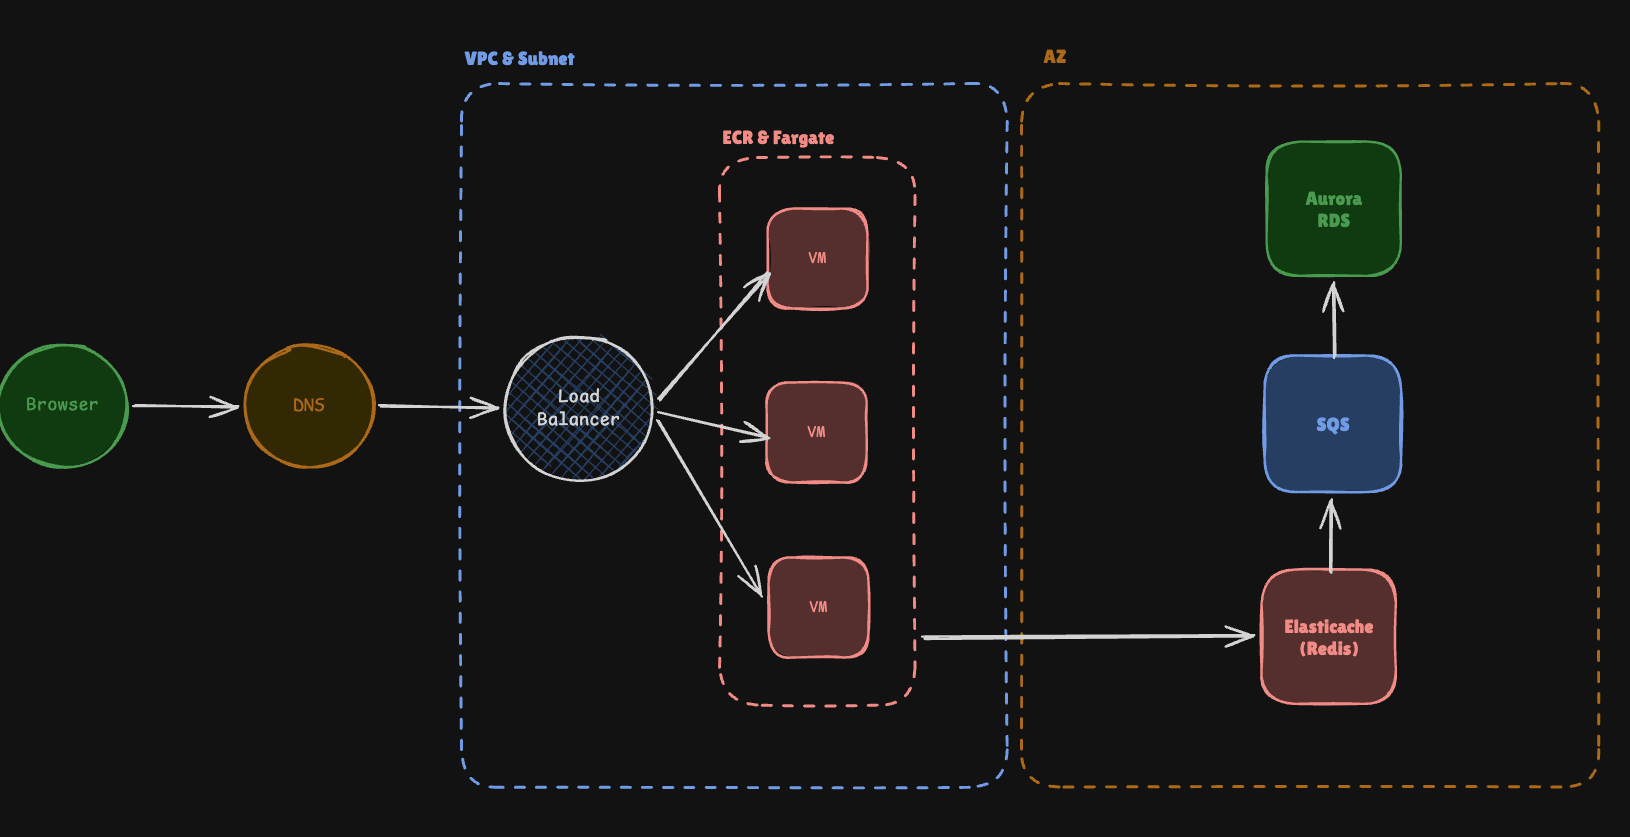
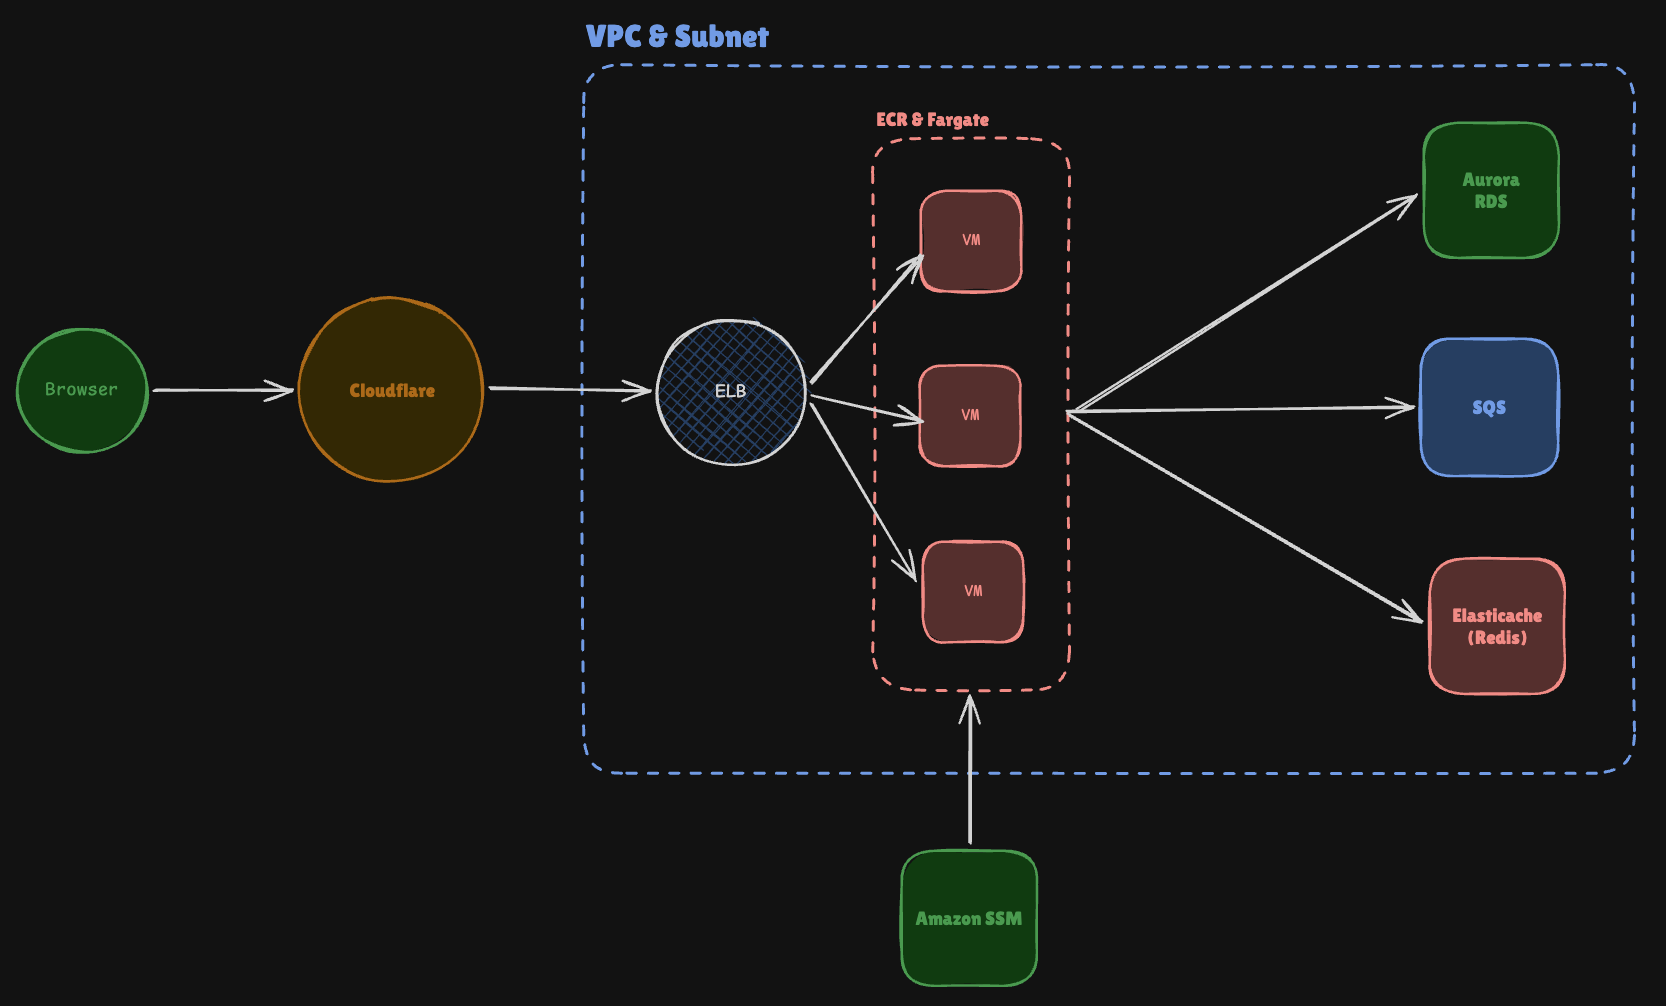
feat(docs): update diagram

diff --git a/docs/README.md b/docs/README.md
@@ -187,7 +187,7 @@ QUIZ_TEST_REDIS_URL=redis://127.0.0.1:16399 node --test tests/*.cjs
 
 ![AWS deployment architecture](./images/aws-architecture.png)
 
-The target deployment on AWS runs the API as containers on ECS Fargate behind a load balancer, with ElastiCache (Redis) and Aurora (PostgreSQL). Amazon SQS would replace BullMQ as the message queue. See [data-flow.md](./data-flow.md) for how requests and messages move between these components.
+The target deployment on AWS: traffic passes through **Cloudflare** (DNS, DDoS protection) to an **Elastic Load Balancer**, which spreads it across the API containers on **ECS Fargate** (images from ECR). The containers use **Aurora** (PostgreSQL), **ElastiCache** (Redis) and **SQS**, which would replace BullMQ as the message queue. Their environment variables and secrets come from **AWS SSM Parameter Store**. See [data-flow.md](./data-flow.md) for how requests and messages move between these components.
 
 ---
 
